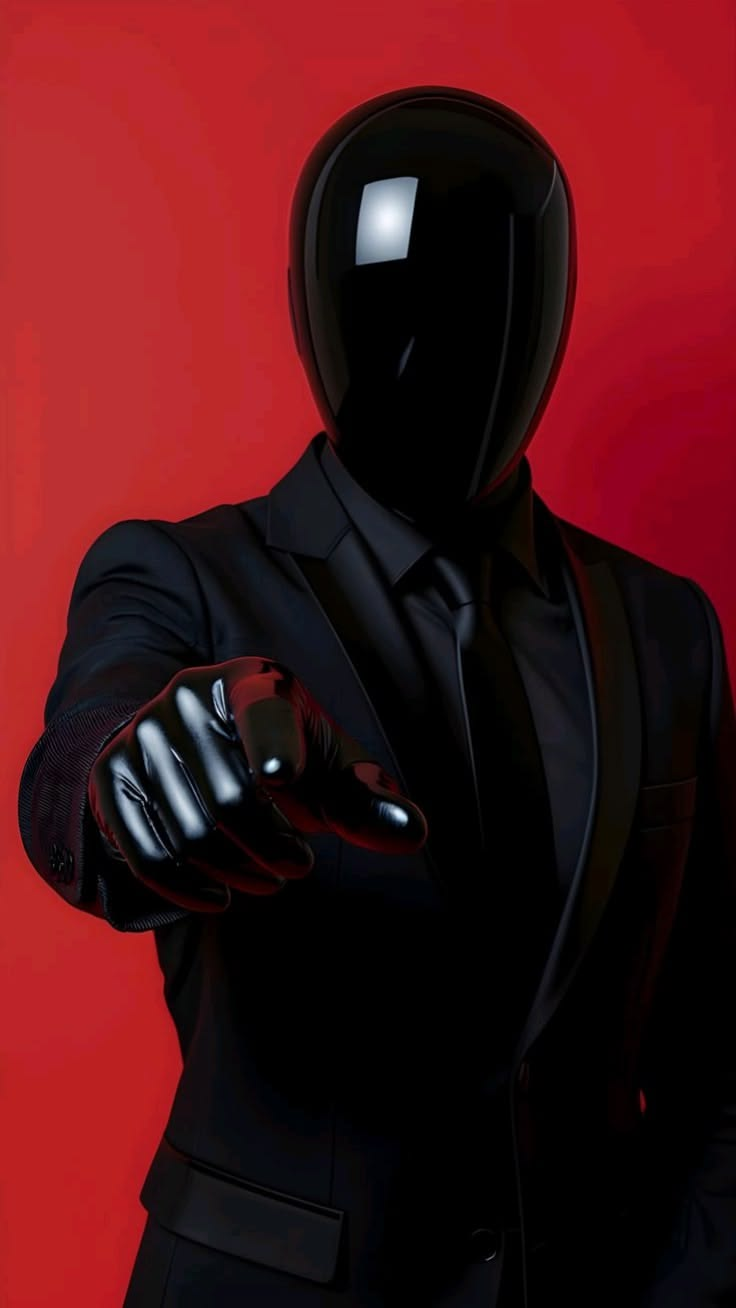
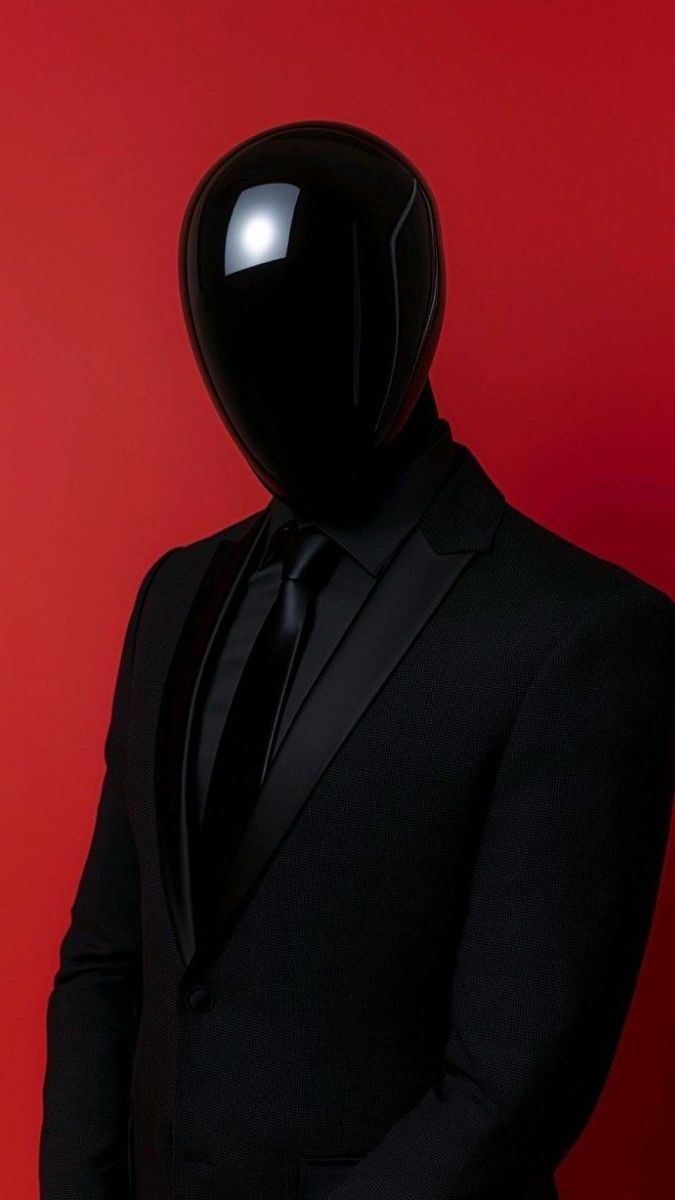
Update About and Contact pages with new images and layout adjustments; enhance Navbar styles and fix ServicesGrid hover effects

diff --git a/components/sections/OurWork.tsx b/components/sections/OurWork.tsx
@@ -1,5 +1,7 @@
 import Button from "@/components/ui/Button";
 import { projects } from "@/lib/data/projects";
+import Image from "next/image";
+import Link from "next/link";
 
 export default function OurWork() {
   return (
@@ -10,9 +12,10 @@ export default function OurWork() {
         </h2>
         <div className="grid gap-6 md:grid-cols-2">
           {projects.map((project, index) => (
-            <article
-              key={project.id}
-              className={` ${index === 2 ? "md:col-span-2" : ""} group relative cursor-pointer overflow-hidden rounded-2xl border-2 border-transparent bg-cream p-8 transition-all duration-200 hover:scale-[1.02] hover:border-black`}
+            <Link
+              key={project.slug}
+              href={`/projects/${project.slug}`}
+              className={` ${index === 2 ? "md:col-span-2" : ""} group relative cursor-pointer overflow-hidden rounded-2xl border-2 border-transparent bg-cream p-8 transition-all duration-200 hover:scale-[1.02] hover:border-dark`}
             >
               <p className="text-xs uppercase tracking-widest text-red">
                 {project.category}
@@ -21,15 +24,25 @@ export default function OurWork() {
                 {project.title}
               </h3>
               <p className="mt-4 text-sm text-dark/70">{project.description}</p>
-              <div className="mt-6 h-40 rounded-xl bg-gray-100" />
+              <div className="relative mt-6 h-80 overflow-hidden rounded-xl bg-gray-100">
+                <Image
+                  src={project.image}
+                  alt={project.title}
+                  fill
+                  className="object-cover transition-transform duration-700 group-hover:scale-[1.03]"
+                />
+              </div>
+              s
               <span className="absolute right-6 top-6 inline-flex h-10 w-10 items-center justify-center rounded-sm bg-red text-cream opacity-0 transition group-hover:opacity-100">
                 →
               </span>
-            </article>
+            </Link>
           ))}
         </div>
         <div className="mt-10 text-center">
-          <Button variant="primary">Show More</Button>
+          <Button variant="primary" href="projects">
+            Show More
+          </Button>
         </div>
       </div>
     </section>

diff --git a/components/layout/Navbar.tsx b/components/layout/Navbar.tsx
@@ -135,8 +135,8 @@ export default function Navbar() {
                       transition-all duration-300
                       `,
                       isActive
-                        ? "bg-black text-cream"
-                        : "text-cream/90 hover:bg-black/20 hover:text-cream",
+                        ? "bg-dark text-cream"
+                        : "text-cream/90 hover:bg-dark/20 hover:text-cream",
                     )}
                   >
                     {link.label}
@@ -197,9 +197,9 @@ export default function Navbar() {
                               px-5 py-4
                               text-left
                               text-[12px]
-                              font-black
+                              font-dark
                               uppercase
-                              text-black
+                              text-dark
                               transition-all duration-200
                               hover:bg-cream/60
                             "
@@ -230,8 +230,8 @@ export default function Navbar() {
                   transition-all duration-300
                   `,
                   isActive
-                    ? "bg-black text-cream"
-                    : "text-cream/90 hover:bg-black/20 hover:text-cream",
+                    ? "bg-dark text-cream"
+                    : "text-cream/90 hover:bg-dark/20 hover:text-cream",
                 )}
               >
                 {link.label}

diff --git a/app/about/page.tsx b/app/about/page.tsx
@@ -81,9 +81,9 @@ export default function AboutPage() {
           </div>
 
           <div className="mt-12 overflow-hidden rounded-[24px] border border-white/10">
-            <div className="relative aspect-[16/8] w-full">
+            <div className="relative aspect-[3/2] w-full">
               <Image
-                src="/team2.jpeg"
+                src="/images/about/team.png"
                 alt="Team"
                 fill
                 className="object-cover"

diff --git a/lib/data/projects.ts b/lib/data/projects.ts
@@ -59,7 +59,7 @@ export const projects = [
     results2:
       "Teams were able to access actionable business insights faster while executives gained real-time operational visibility through AI-generated reports.",
 
-    youtubeId: "dQw4w9WgXcQ",
+    youtubeId: "Onb6_bRJ0Bw",
 
     stats: [
       {
@@ -137,7 +137,7 @@ export const projects = [
     results2:
       "Customers received faster approvals while insurance teams processed higher volumes with reduced manual effort.",
 
-    youtubeId: "dQw4w9WgXcQ",
+    youtubeId: "UIPXHsUXVH0",
 
     stats: [
       {

diff --git a/app/contact/page.tsx b/app/contact/page.tsx
@@ -1,6 +1,7 @@
 import type { Metadata } from "next";
 import Footer from "@/components/layout/Footer";
 import Button from "@/components/ui/Button";
+import Image from "next/image";
 
 export const metadata: Metadata = { title: "Contact Us" };
 
@@ -75,7 +76,7 @@ export default function ContactPage() {
             <div className="flex items-center justify-between rounded-2xl border border-cream/10 bg-dark-deep px-8 py-5">
               <div className="flex items-center gap-4">
                 <div className="flex h-12 w-12 items-center justify-center rounded-full border border-cream/10 bg-red/20 text-base font-bold text-cream">
-                  S
+                  <Image src="/contact.jpeg" alt="S" width={100} height={100} />
                 </div>
                 <div>
                   <p className="font-semibold text-cream">Yashaswi</p>

diff --git a/components/sections/ServicesGrid.tsx b/components/sections/ServicesGrid.tsx
@@ -7,7 +7,7 @@ export default function ServicesGrid() {
         {services.map((service) => (
           <article
             key={service.id}
-            className="group relative cursor-pointer overflow-hidden rounded-2xl border-2 border-transparent bg-cream p-8 transition-all duration-200 hover:scale-[1.02] hover:border-black"
+            className="group relative cursor-pointer overflow-hidden rounded-2xl border-2 border-transparent bg-cream p-8 transition-all duration-200 hover:scale-[1.02] hover:border-dark"
           >
             <p className="mb-4 text-xs font-medium uppercase tracking-widest text-red">
               Service / {service.id}